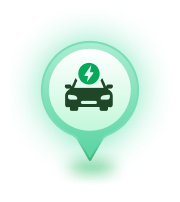
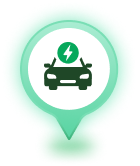
홈 핀 모달·아이콘 개선: 중앙 모달 최상단 레이어, 닫기 버튼 우상단 고정, 핀 이미지 선명도 필터 적용

diff --git a/src/pages/Home.tsx b/src/pages/Home.tsx
@@ -379,7 +379,7 @@ export default function Home() {
           
           {/* MAP PINS (좌표계가 지도 해상도에 완벽 종속됨) */}
           {activeMile !== 4 && getActivePins().map((pin, idx) => (
-            <div 
+            <div
               key={pin.id}
               className="absolute z-30 anim-pin-enter"
               style={{ left: pin.x, top: pin.y, animationDelay: `${idx * 0.18}s` }}
@@ -389,10 +389,16 @@ export default function Home() {
                 className="pointer-events-auto flex group transition-all duration-300 hover:scale-110 hover:-translate-y-[6px]"
                 aria-label={`${pin.title} 상세 보기`}
               >
-                <img 
-                  src={getPinIcon()} 
-                  alt="" 
-                  className="w-[70px] h-[80px] object-contain drop-shadow-[0_6px_12px_rgba(0,0,0,0.15)]" 
+                <img
+                  src={getPinIcon()}
+                  alt=""
+                  style={{
+                    width: 70,
+                    height: 83,
+                    display: 'block',
+                    flexShrink: 0,
+                    filter: 'contrast(1.15) saturate(1.4)',
+                  }}
                 />
                 <div className="absolute top-[14px] left-[62px] bg-white/80 backdrop-blur-xl rounded-[12px] shadow-[0_8px_32px_0_rgba(31,38,135,0.12)] px-[14px] py-[10px] flex flex-col items-start min-w-[max-content] pointer-events-none border border-white/70 text-left">
                   <span className="text-[12.5px] font-[800] text-[#1E2124] leading-tight tracking-[0.2px] mb-1.5">{pin.title}</span>
@@ -641,33 +647,41 @@ export default function Home() {
             })}
           </div>
 
-          {/* Map Pin Modal (Pins moved to Layer 1 map wrapper) */}
+          {/* ── 핀 상세 모달 (중앙, 최상단 레이어) ── */}
           {selectedPin && (
-            <div className="absolute inset-0 z-50 flex items-center justify-center pointer-events-none">
-              <div className="w-[360px] h-[180px] bg-white/85 backdrop-blur-xl rounded-[16px] shadow-[0_8px_32px_0_rgba(36,40,37,0.15)] p-[22px] relative flex flex-col border border-white/70 pointer-events-auto">
-                <button 
+            <div
+              className="absolute inset-0 flex items-center justify-center pointer-events-auto"
+              style={{ zIndex: 9999 }}
+              onClick={() => setSelectedPin(null)}
+            >
+              <div
+                className="relative bg-white/90 backdrop-blur-xl rounded-[16px] p-[22px] w-[320px] shadow-[0_8px_32px_0_rgba(36,40,37,0.15)]"
+                style={{ border: '1px solid #DFE0E4' }}
+                onClick={(e: React.MouseEvent) => e.stopPropagation()}
+              >
+                {/* 닫기 버튼 — 모달 우상단 16px */}
+                <button
                   onClick={() => setSelectedPin(null)}
-                  className="absolute top-[18px] right-[18px] p-1 text-[#999] hover:text-[#333] transition-colors bg-white/50 rounded-full hover:bg-white"
+                  className="absolute top-[16px] right-[16px] w-[28px] h-[28px] flex items-center justify-center rounded-full hover:bg-[#f4f5f6] text-[#6d7882] hover:text-[#1e2124] transition-colors"
                   aria-label="닫기"
                 >
-                  <svg width="20" height="20" viewBox="0 0 24 24" fill="none" stroke="currentColor" strokeWidth="2.5" strokeLinecap="round" strokeLinejoin="round"><line x1="18" y1="6" x2="6" y2="18"></line><line x1="6" y1="6" x2="18" y2="18"></line></svg>
+                  <svg width="14" height="14" viewBox="0 0 14 14" fill="none">
+                    <path d="M1 1l12 12M13 1L1 13" stroke="currentColor" strokeWidth="1.8" strokeLinecap="round"/>
+                  </svg>
                 </button>
-                <div className="flex flex-col h-full justify-between">
-                  <div>
-                    <h3 className="text-[17px] font-bold text-[#111] leading-snug tracking-tight pr-6">{selectedPin.detailTitle}</h3>
-                    <p className="text-[12px] font-medium text-[#777] mt-1.5 tracking-tight flex items-center gap-1">
-                      <svg width="12" height="12" viewBox="0 0 24 24" fill="none" stroke="currentColor" strokeWidth="2" strokeLinecap="round" strokeLinejoin="round"><path d="M21 10c0 7-9 13-9 13s-9-6-9-13a9 9 0 0 1 18 0z"></path><circle cx="12" cy="10" r="3"></circle></svg>
-                      {selectedPin.address}
-                    </p>
-                  </div>
-                  <div className="grid grid-cols-3 gap-2 bg-[#F0F3F8] rounded-[10px] p-[10px] mt-3 border border-transparent">
-                    {selectedPin.detailItems.map((item, idx) => (
-                      <div key={idx} className="flex flex-col items-center justify-center text-center px-1">
-                        <span className="text-[10px] text-[#555] font-[600] mb-1 tracking-tight break-keep leading-tight">{item.label}</span>
-                        <span className={`text-[13.5px] ${getMetricsColor()} font-[800] tracking-tight leading-none`}>{item.value}</span>
-                      </div>
-                    ))}
-                  </div>
+                {/* 모달 헤더 */}
+                <div className="mb-[14px] pr-[32px]">
+                  <p className="text-[13px] text-[#6d7882] mb-[2px]">{selectedPin.address}</p>
+                  <h3 className="text-[17px] font-bold text-[#1e2124] leading-tight">{selectedPin.detailTitle}</h3>
+                </div>
+                {/* 지표 그리드 */}
+                <div className="grid grid-cols-3 gap-[8px]">
+                  {selectedPin.detailItems.map((item: { label: string; value: string }, i: number) => (
+                    <div key={i} className="bg-[#f4f5f6] rounded-[10px] px-[10px] py-[10px] flex flex-col gap-[4px]">
+                      <span className="text-[11px] text-[#6d7882]">{item.label}</span>
+                      <span className="text-[14px] font-bold text-[#1e2124]">{item.value}</span>
+                    </div>
+                  ))}
                 </div>
               </div>
             </div>
